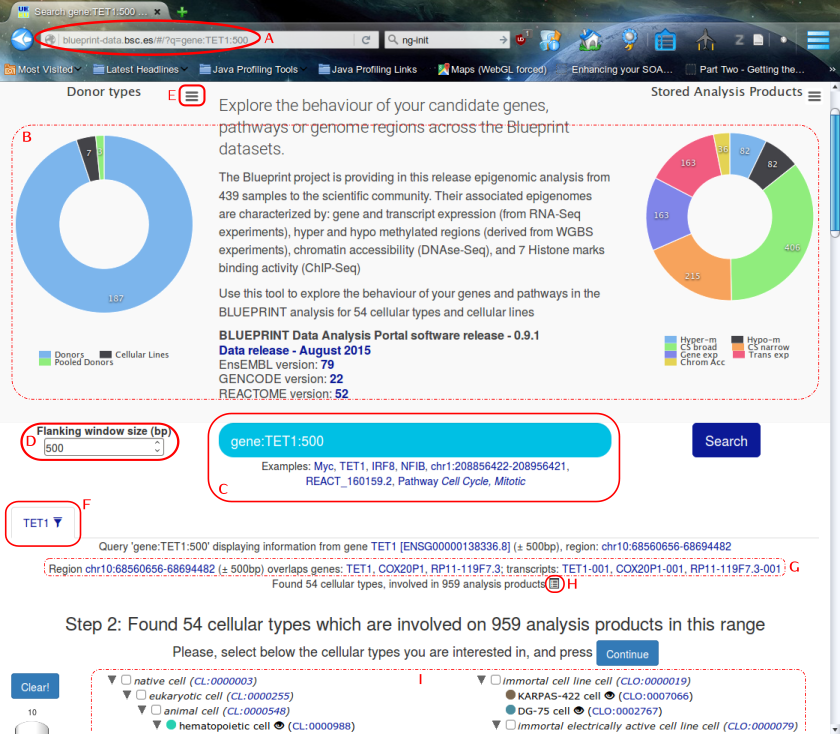
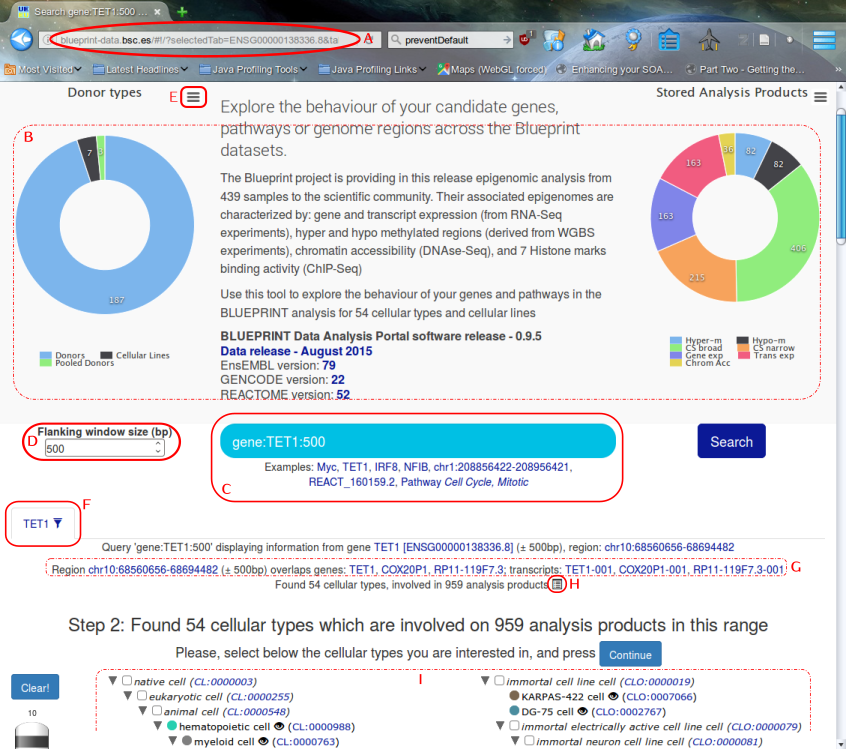
First steps help text and images have been updated to the current interface

diff --git a/app/views/first-steps.html b/app/views/first-steps.html
@@ -9,10 +9,10 @@
 					<li>Search field with autocomplete capabilities, based on EnsEMBL, GENCODE and REACTOME dumps, which understands union (+) and difference (-) set operators.</li>
 					<li>Default flanking window around the query regions obtained from the search.</li>
 					<li>Any chart can be saved as a graphics file (PNG, JPG, PDF, SVG), as well as the data series used to generate the chart.</li>
-					<li>Queries (genes, transcripts, pathways, ...) can return one or more query regions. Each query region is shown as a tab.</li>
-					<li>Features found in the query region are enumerated, providing links to their authoritative web sites.</li>
+					<li>Queries (genes, transcripts, complexes, pathways, ...) can return one or more query regions. Each query region is shown as a tab.</li>
+					<li>Main features found in the query region are enumerated, providing links to their authoritative web sites.</li>
 					<li>Metadata (donors, samples, analysis, ...) related to each query region is available to be browsed and saved.</li>
-					<li>On the second step, the user can enable which cellular types with analysis results desires to watch.</li>
+					<li>On the second step, the user can choose which cellular types with analysis results desires to watch.</li>
 				</ol>
 			</h3>
 		</div>
@@ -24,11 +24,11 @@
 		<div class="col-sm-4" style="padding-top:30px;">
 			<h3>
 				<ol type="A" start="10">
-					<li>There are several views which allow exploring the analysis data from different points of view. As of BDAP version 0.9.1, the available views are general, by tissue, and diseases by cellular type.</li>
-					<li>Each cellular type with data on the query region is listed. Their data series on all the charts can be switched on and off at once. For each cellular type is possible to see the names of the samples with data on the query region.</li>
-					<li>Segment-based scatter plots are used for almost each chart type, like regulatory regions, methylation data and histone marks. Boxplot charts are used for gene and transcript expression.</li>
-					<li>Start and stop codons, gene regions, and gene start and stop features are shown on step charts.</li>
-					<li>Each chart can be (1) maximized or restored; (2) hidden; (3) chart legend can be shown / hidden; (4) data supporting visible series in the chart can be browsed and saved.</li>
+					<li>There are several views which allow exploring the analysis data from different points of view. As of BDAP version 0.9.5, the available views are "General", "By tissue" and "Diseases by cellular type".</li>
+					<li>Each cellular type with data on the query region is listed. Their data series can be switched on and off at once on all the charts. For each cellular type it is possible to see the names of the samples with data on the query region.</li>
+					<li>Spline+ribbon-based scatter plots (1) are used for almost every chart type, such as the regulatory regions, methylation data and histone marks, showing the averaged series, minimum and maximum. Box-plot charts (2) are used for gene and transcript expression.</li>
+					<li>Transcripts, exons, UTRs, CDSs and TSSs (start and stop codons) are shown as special series in charts whose x axis represents chromosomical coordinates.</li>
+					<li>Each chart can be (1) maximized or restored; (2) hidden; (3) the chart legend can be shown / hidden; (4) switch view described in (M) between the condensed gene layout (for each gene, only the transcript from the principal isoform is shown) and the complete one (all the transcripts are shown); and (5) data supporting visible series in the chart can be browsed and saved.</li>
 				</ol>
 			</h3>
 		</div>
